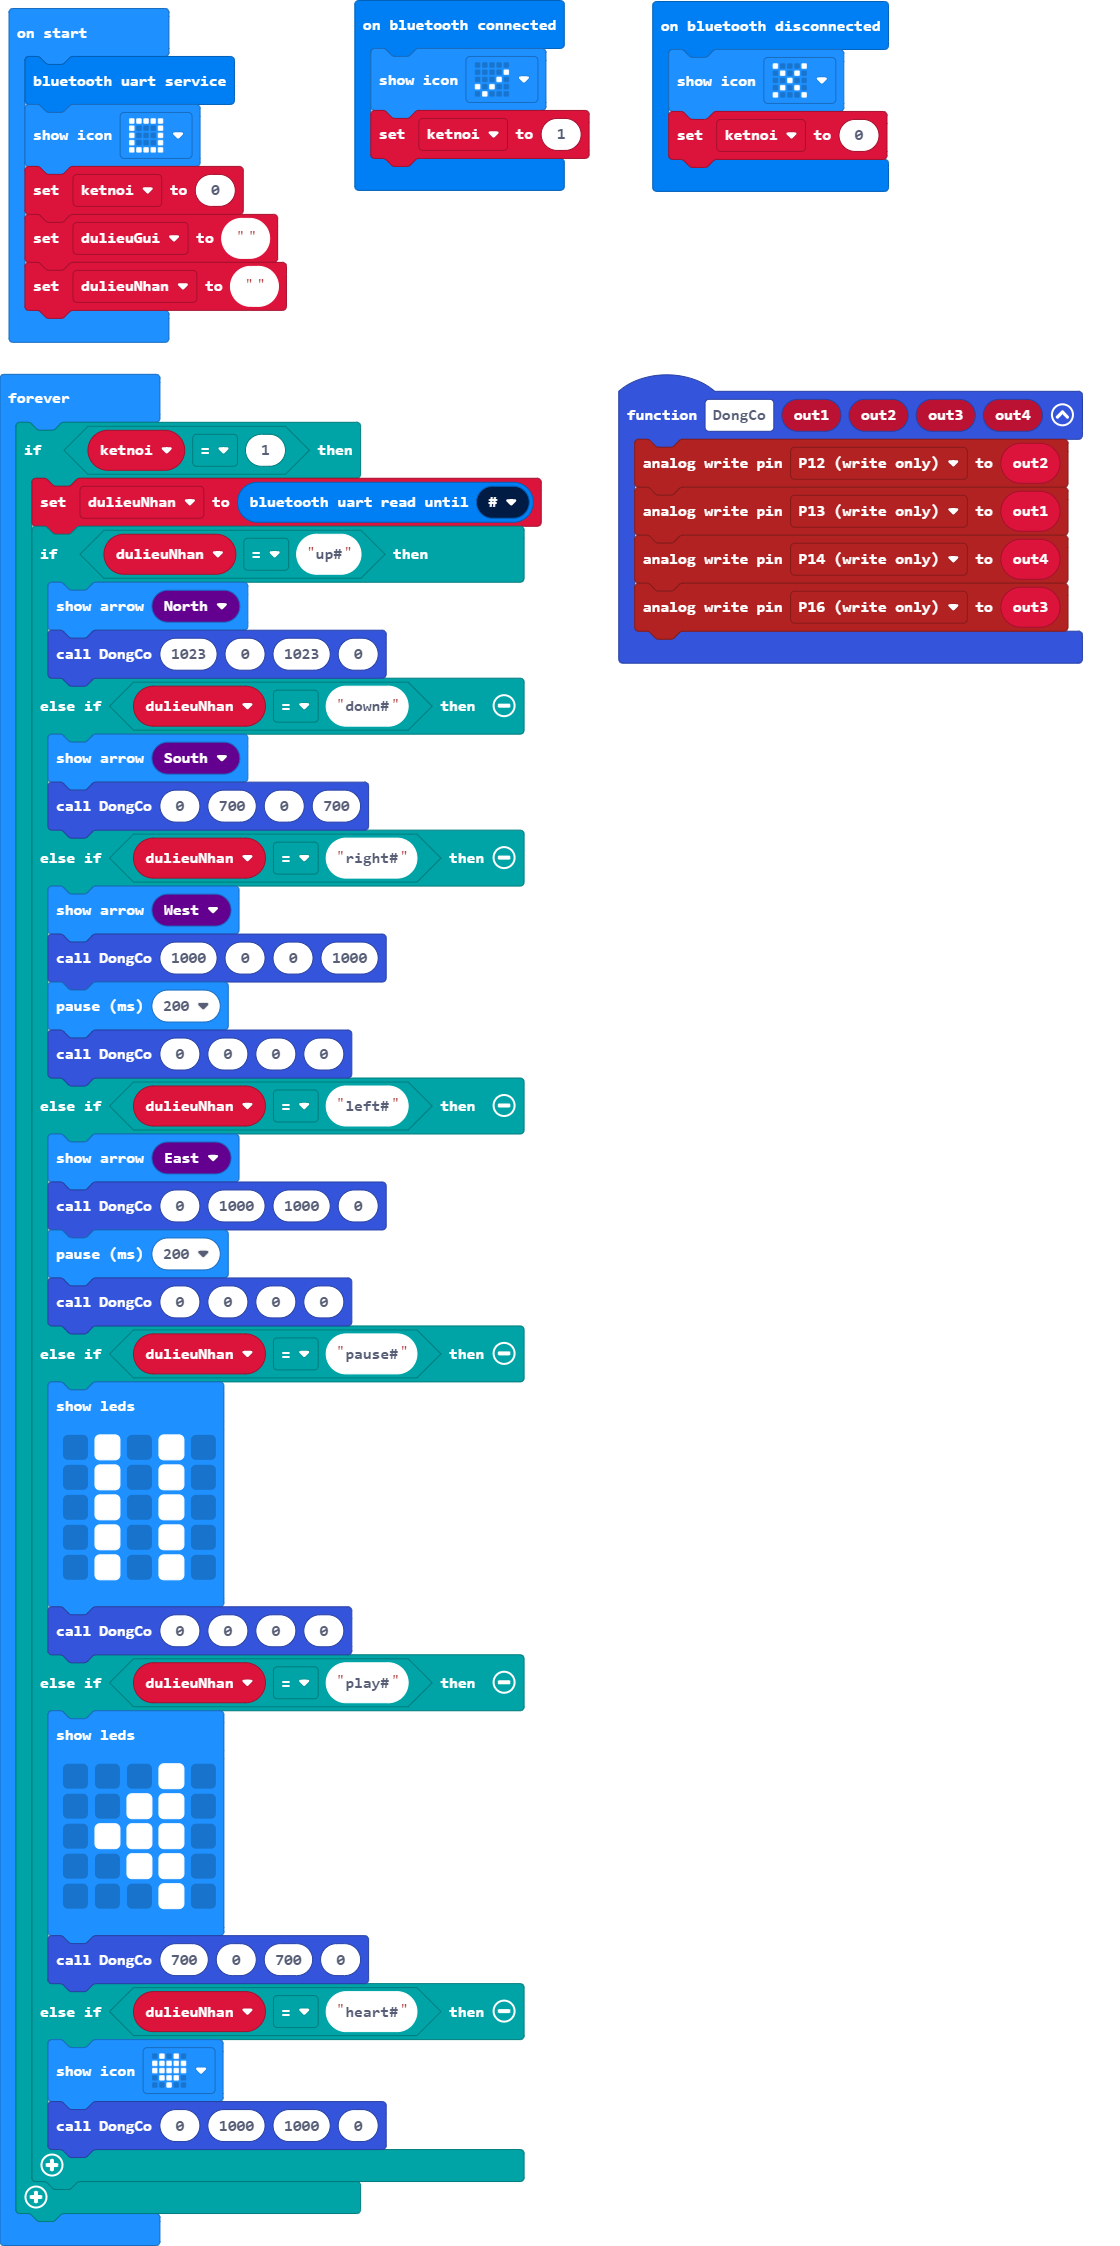
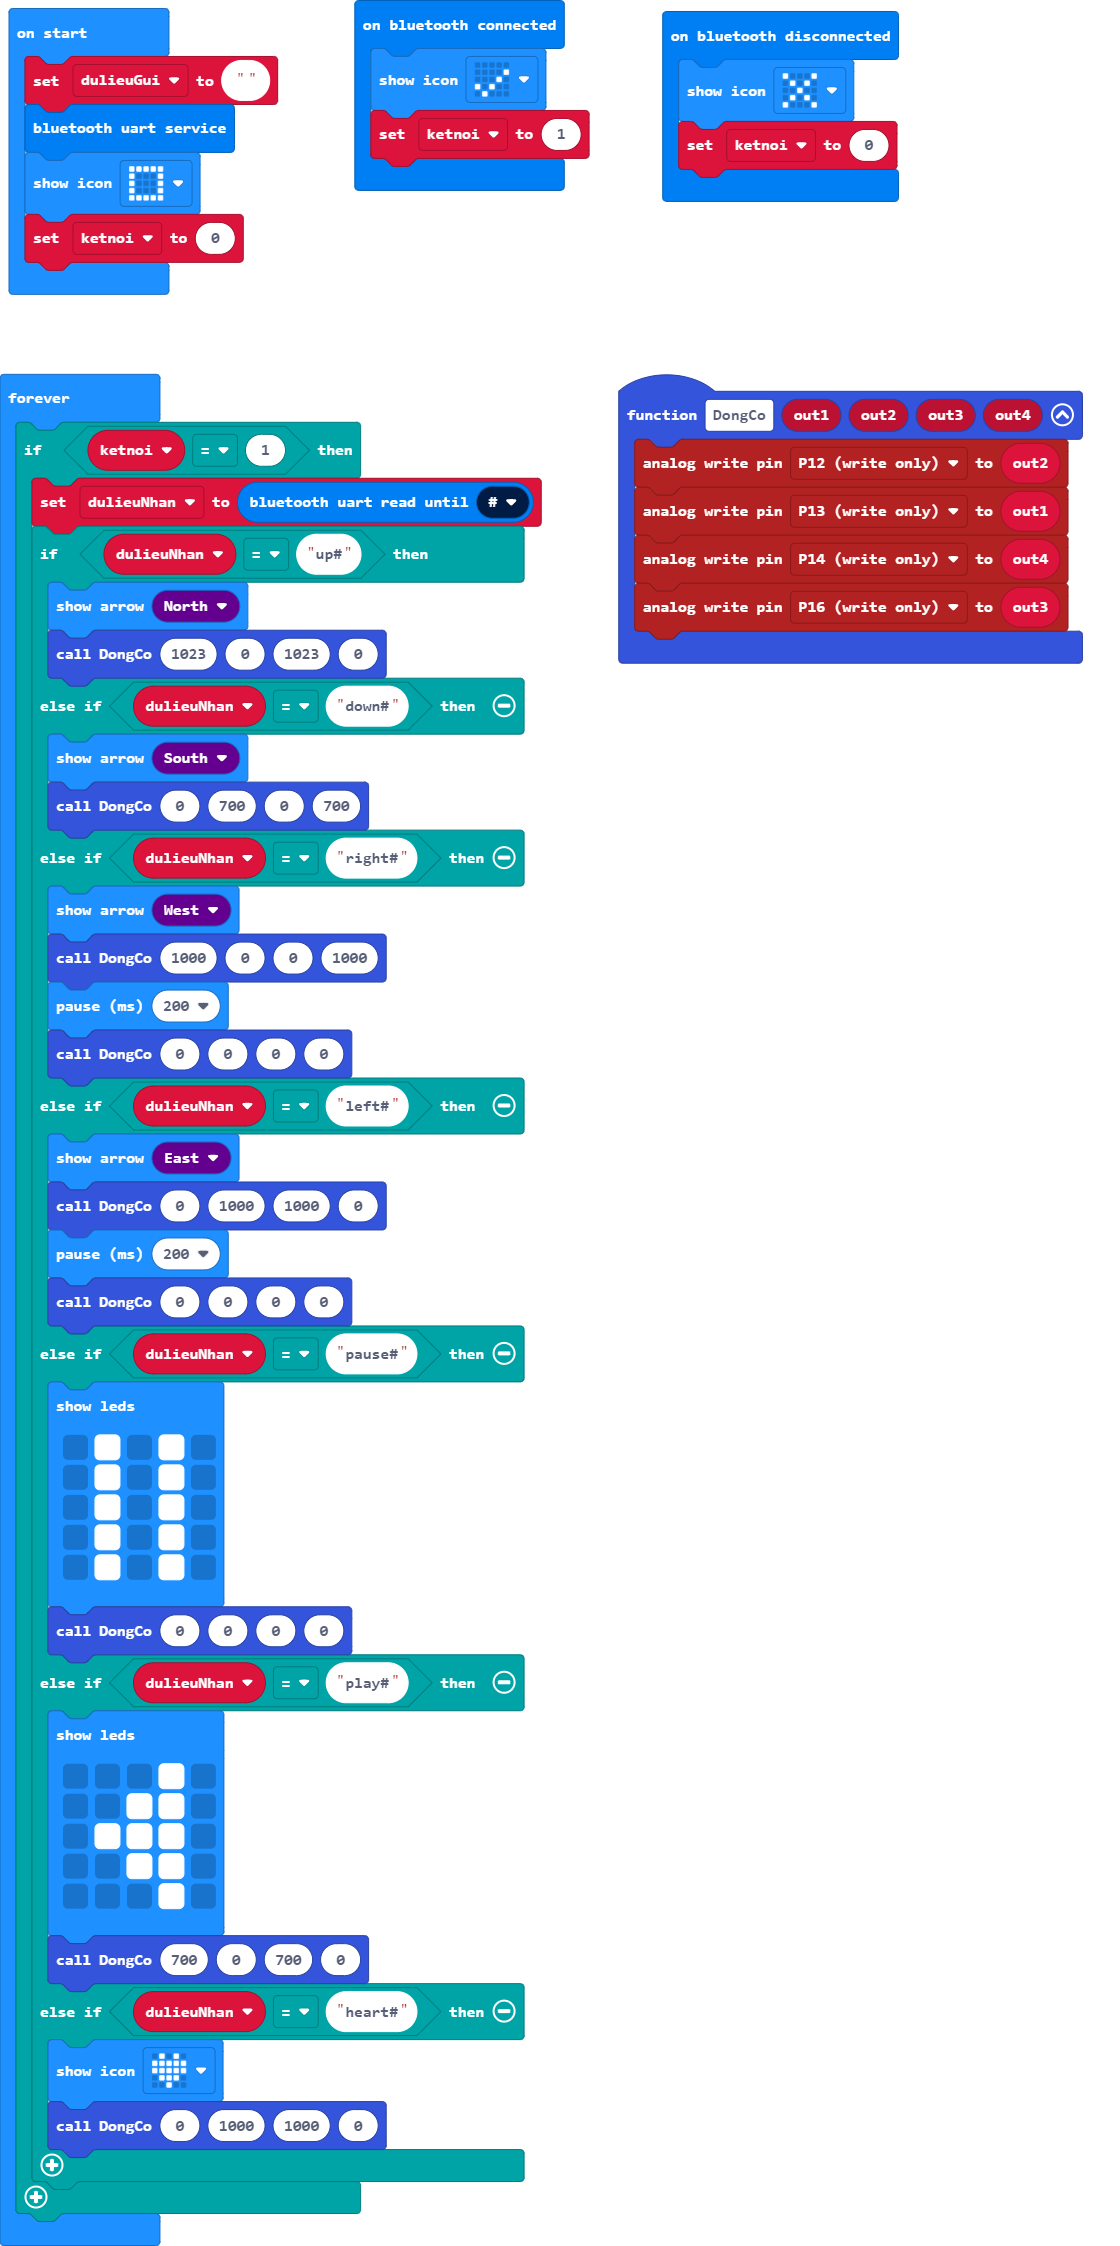
Update main.blocks, main.ts, main.py

Changed region(s): [[0.0, 0.0, 0.25, 0.1558], [0.5625, 0.0, 0.8125, 0.0935]]

diff --git a/main.ts b/main.ts
@@ -12,12 +12,12 @@ bluetooth.onBluetoothDisconnected(function () {
     basic.showIcon(IconNames.No)
     ketnoi = 0
 })
+let dulieuNhan = ""
 let ketnoi = 0
+let dulieuGui = ""
 bluetooth.startUartService()
 basic.showIcon(IconNames.Square)
 ketnoi = 0
-let dulieuGui = ""
-let dulieuNhan = ""
 basic.forever(function () {
     if (ketnoi == 1) {
         dulieuNhan = bluetooth.uartReadUntil(serial.delimiters(Delimiters.Hash))

diff --git a/main.py b/main.py
@@ -1,12 +1,18 @@
+def DongCo(out1: number, out2: number, out3: number, out4: number):
+    pins.analog_write_pin(AnalogPin.P12, out2)
+    pins.analog_write_pin(AnalogPin.P13, out1)
+    pins.analog_write_pin(AnalogPin.P14, out4)
+    pins.analog_write_pin(AnalogPin.P16, out3)
+
 def on_bluetooth_connected():
     global ketnoi
-    basic.show_icon(IconNames.HEART)
+    basic.show_icon(IconNames.YES)
     ketnoi = 1
 bluetooth.on_bluetooth_connected(on_bluetooth_connected)
 
 def on_bluetooth_disconnected():
     global ketnoi
-    basic.show_icon(IconNames.SMALL_DIAMOND)
+    basic.show_icon(IconNames.NO)
     ketnoi = 0
 bluetooth.on_bluetooth_disconnected(on_bluetooth_disconnected)
 
@@ -14,22 +20,48 @@ ketnoi = 0
 bluetooth.start_uart_service()
 basic.show_icon(IconNames.SQUARE)
 ketnoi = 0
-a = 0
+dulieuGui = ""
+dulieuNhan = ""
 
 def on_forever():
-    global a
-    if bluetooth.uart_read_until(serial.delimiters(Delimiters.HASH)) == "quay#":
-        a = 1
-        basic.show_icon(IconNames.STICK_FIGURE)
-    elif bluetooth.uart_read_until(serial.delimiters(Delimiters.HASH)) == "dung#":
-        a = 0
-        basic.show_icon(IconNames.YES)
-    else:
-        a = -1
-        basic.show_icon(IconNames.LEFT_TRIANGLE)
-    while ketnoi == 1 and a == 1:
-        pins.servo_write_pin(AnalogPin.P1, 20)
-        basic.pause(1000)
-        pins.servo_write_pin(AnalogPin.P1, 160)
-        basic.pause(1000)
+    global dulieuNhan
+    if ketnoi == 1:
+        dulieuNhan = bluetooth.uart_read_until(serial.delimiters(Delimiters.HASH))
+        if dulieuNhan == "up#":
+            basic.show_arrow(ArrowNames.NORTH)
+            DongCo(1023, 0, 1023, 0)
+        elif dulieuNhan == "down#":
+            basic.show_arrow(ArrowNames.SOUTH)
+            DongCo(0, 700, 0, 700)
+        elif dulieuNhan == "right#":
+            basic.show_arrow(ArrowNames.WEST)
+            DongCo(1000, 0, 0, 1000)
+            basic.pause(200)
+            DongCo(0, 0, 0, 0)
+        elif dulieuNhan == "left#":
+            basic.show_arrow(ArrowNames.EAST)
+            DongCo(0, 1000, 1000, 0)
+            basic.pause(200)
+            DongCo(0, 0, 0, 0)
+        elif dulieuNhan == "pause#":
+            basic.show_leds("""
+                . # . # .
+                                . # . # .
+                                . # . # .
+                                . # . # .
+                                . # . # .
+            """)
+            DongCo(0, 0, 0, 0)
+        elif dulieuNhan == "play#":
+            basic.show_leds("""
+                . . . # .
+                                . . # # .
+                                . # # # .
+                                . . # # .
+                                . . . # .
+            """)
+            DongCo(700, 0, 700, 0)
+        elif dulieuNhan == "heart#":
+            basic.show_icon(IconNames.HEART)
+            DongCo(0, 1000, 1000, 0)
 basic.forever(on_forever)
